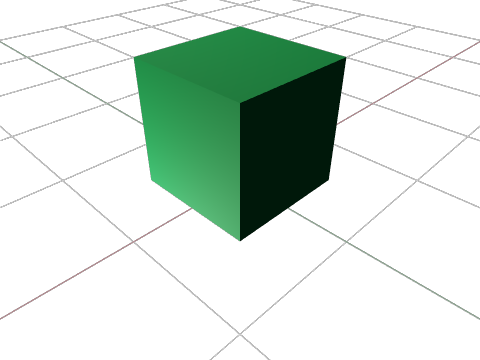
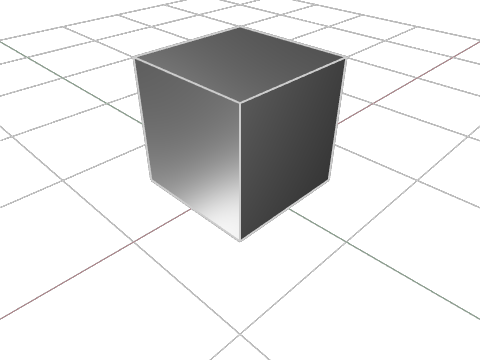
update websocket tutorial and image (#247)
* update websocket tutorial and image

* running ci

* running ci

* Updating script outputs

* Updating script outputs

---------

Changed region(s): [[0.25, 0.0611, 0.75, 0.6722]]

diff --git a/tutorials/websocket_tutorial/websocketexample.py b/tutorials/websocket_tutorial/websocketexample.py
@@ -31,6 +31,7 @@ def make_cube():
         client=client,
         fps=30,
         unlocked_framerate=False,
+        post_effect="noeffect",
         video_res_height=360,
         video_res_width=480,
         webrtc=False,
